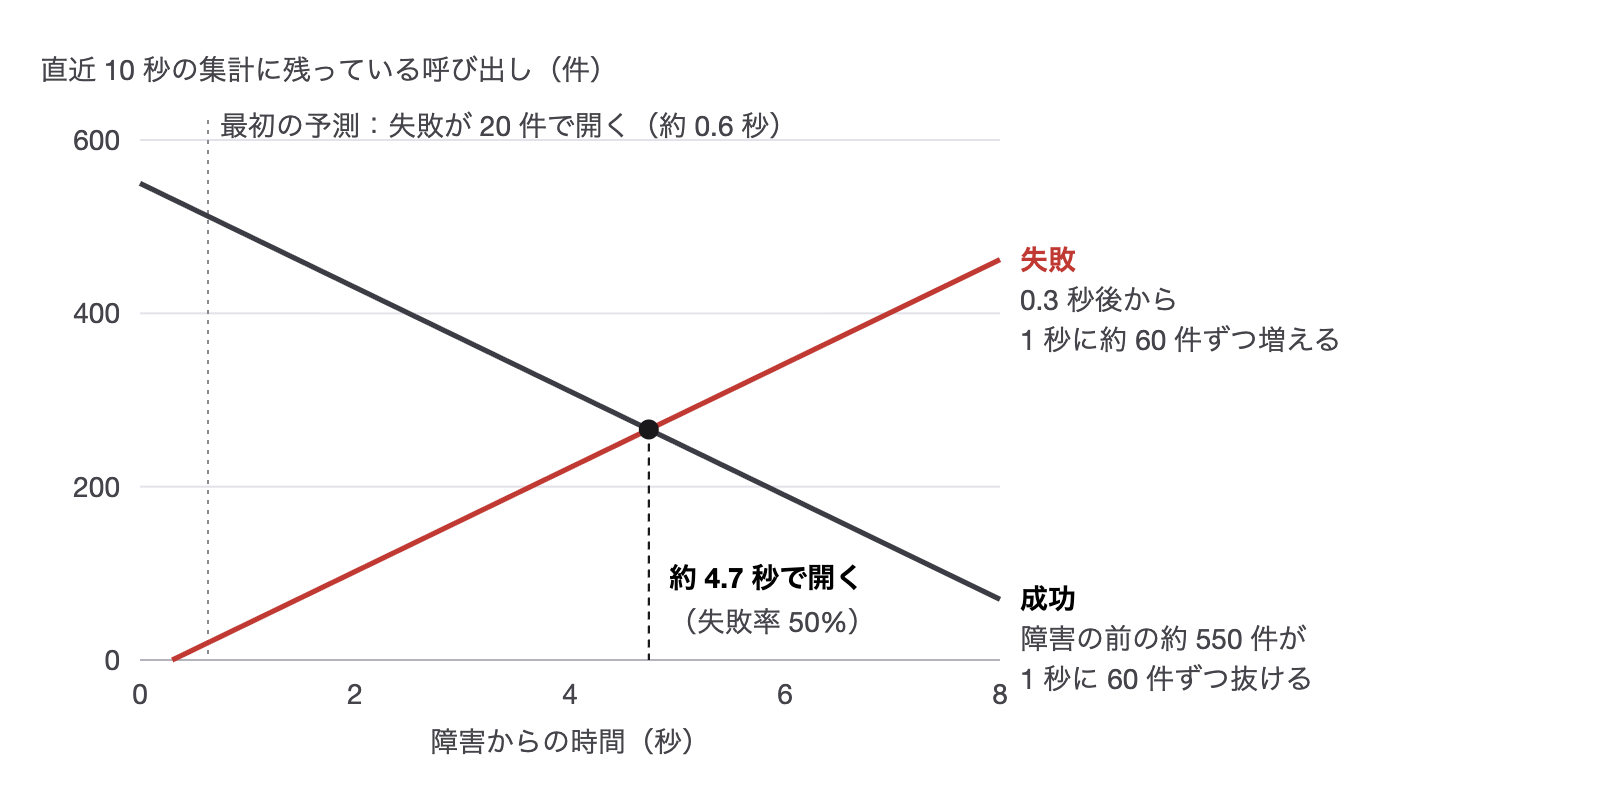
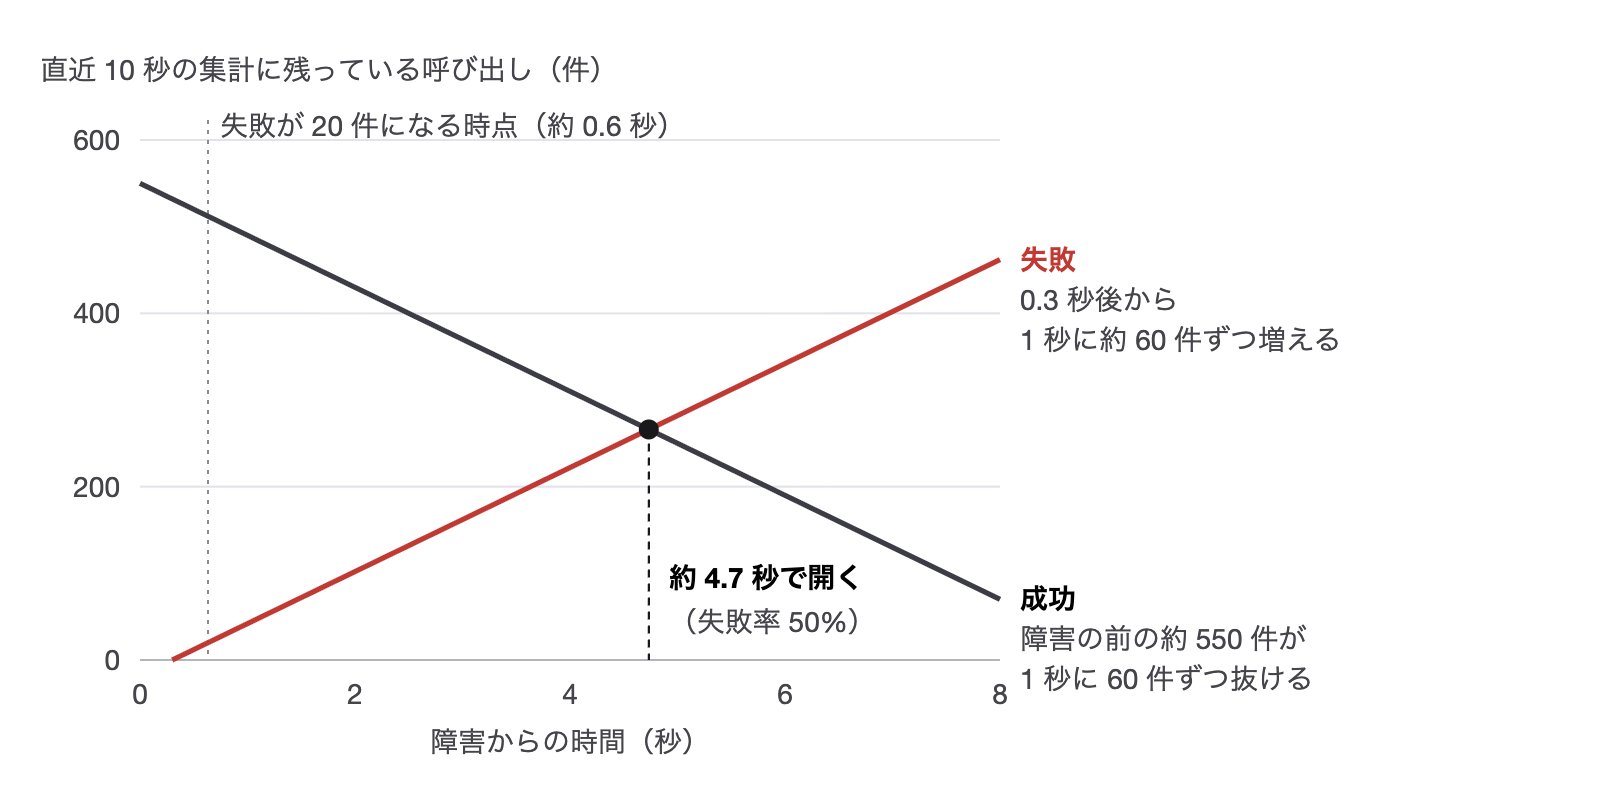
Label the 20-failure line in the breaker figure as a point in time, not a prediction

Changed region(s): [[0.125, 0.125, 0.5, 0.1875]]

diff --git a/tools/diagrams/breaker-window.html b/tools/diagrams/breaker-window.html
@@ -28,10 +28,10 @@
   text(svg, (PX0 + PX1) / 2, PY0 + 46, 'small mid', tr('障害からの時間（秒）', 'time since the fault (s)'));
   text(svg, 20, 40, 'small', tr('直近 10 秒の集計に残っている呼び出し（件）', 'calls in the last 10 s of the count'));
 
-  // 最初の予測：失敗が 20 件たまれば開く（約 0.6 秒）
+  // 失敗が 20 件になる時点（最低の呼び出し数を開く条件と読み違えると、ここで開くと見積もる）
   const tw = T0 + 20 / IN;
   el(svg, 'line', { class: 'grid', x1: X(tw), y1: PY1 - 10, x2: X(tw), y2: PY0 });
-  text(svg, X(tw) + 6, PY1 - 2, 'small', tr('最初の予測：失敗が 20 件で開く（約 0.6 秒）', 'first prediction: opens at 20 failures (~0.6 s)'));
+  text(svg, X(tw) + 6, PY1 - 2, 'small', tr('失敗が 20 件になる時点（約 0.6 秒）', 'when failures reach 20 (~0.6 s)'));
 
   // 成功（抜けていく）と失敗（増えていく）
   el(svg, 'line', { x1: X(0), y1: Y(S0), x2: X(TMAX), y2: Y(S0 - OUT * TMAX), stroke: '#3c3c44', 'stroke-width': 2.6 });
